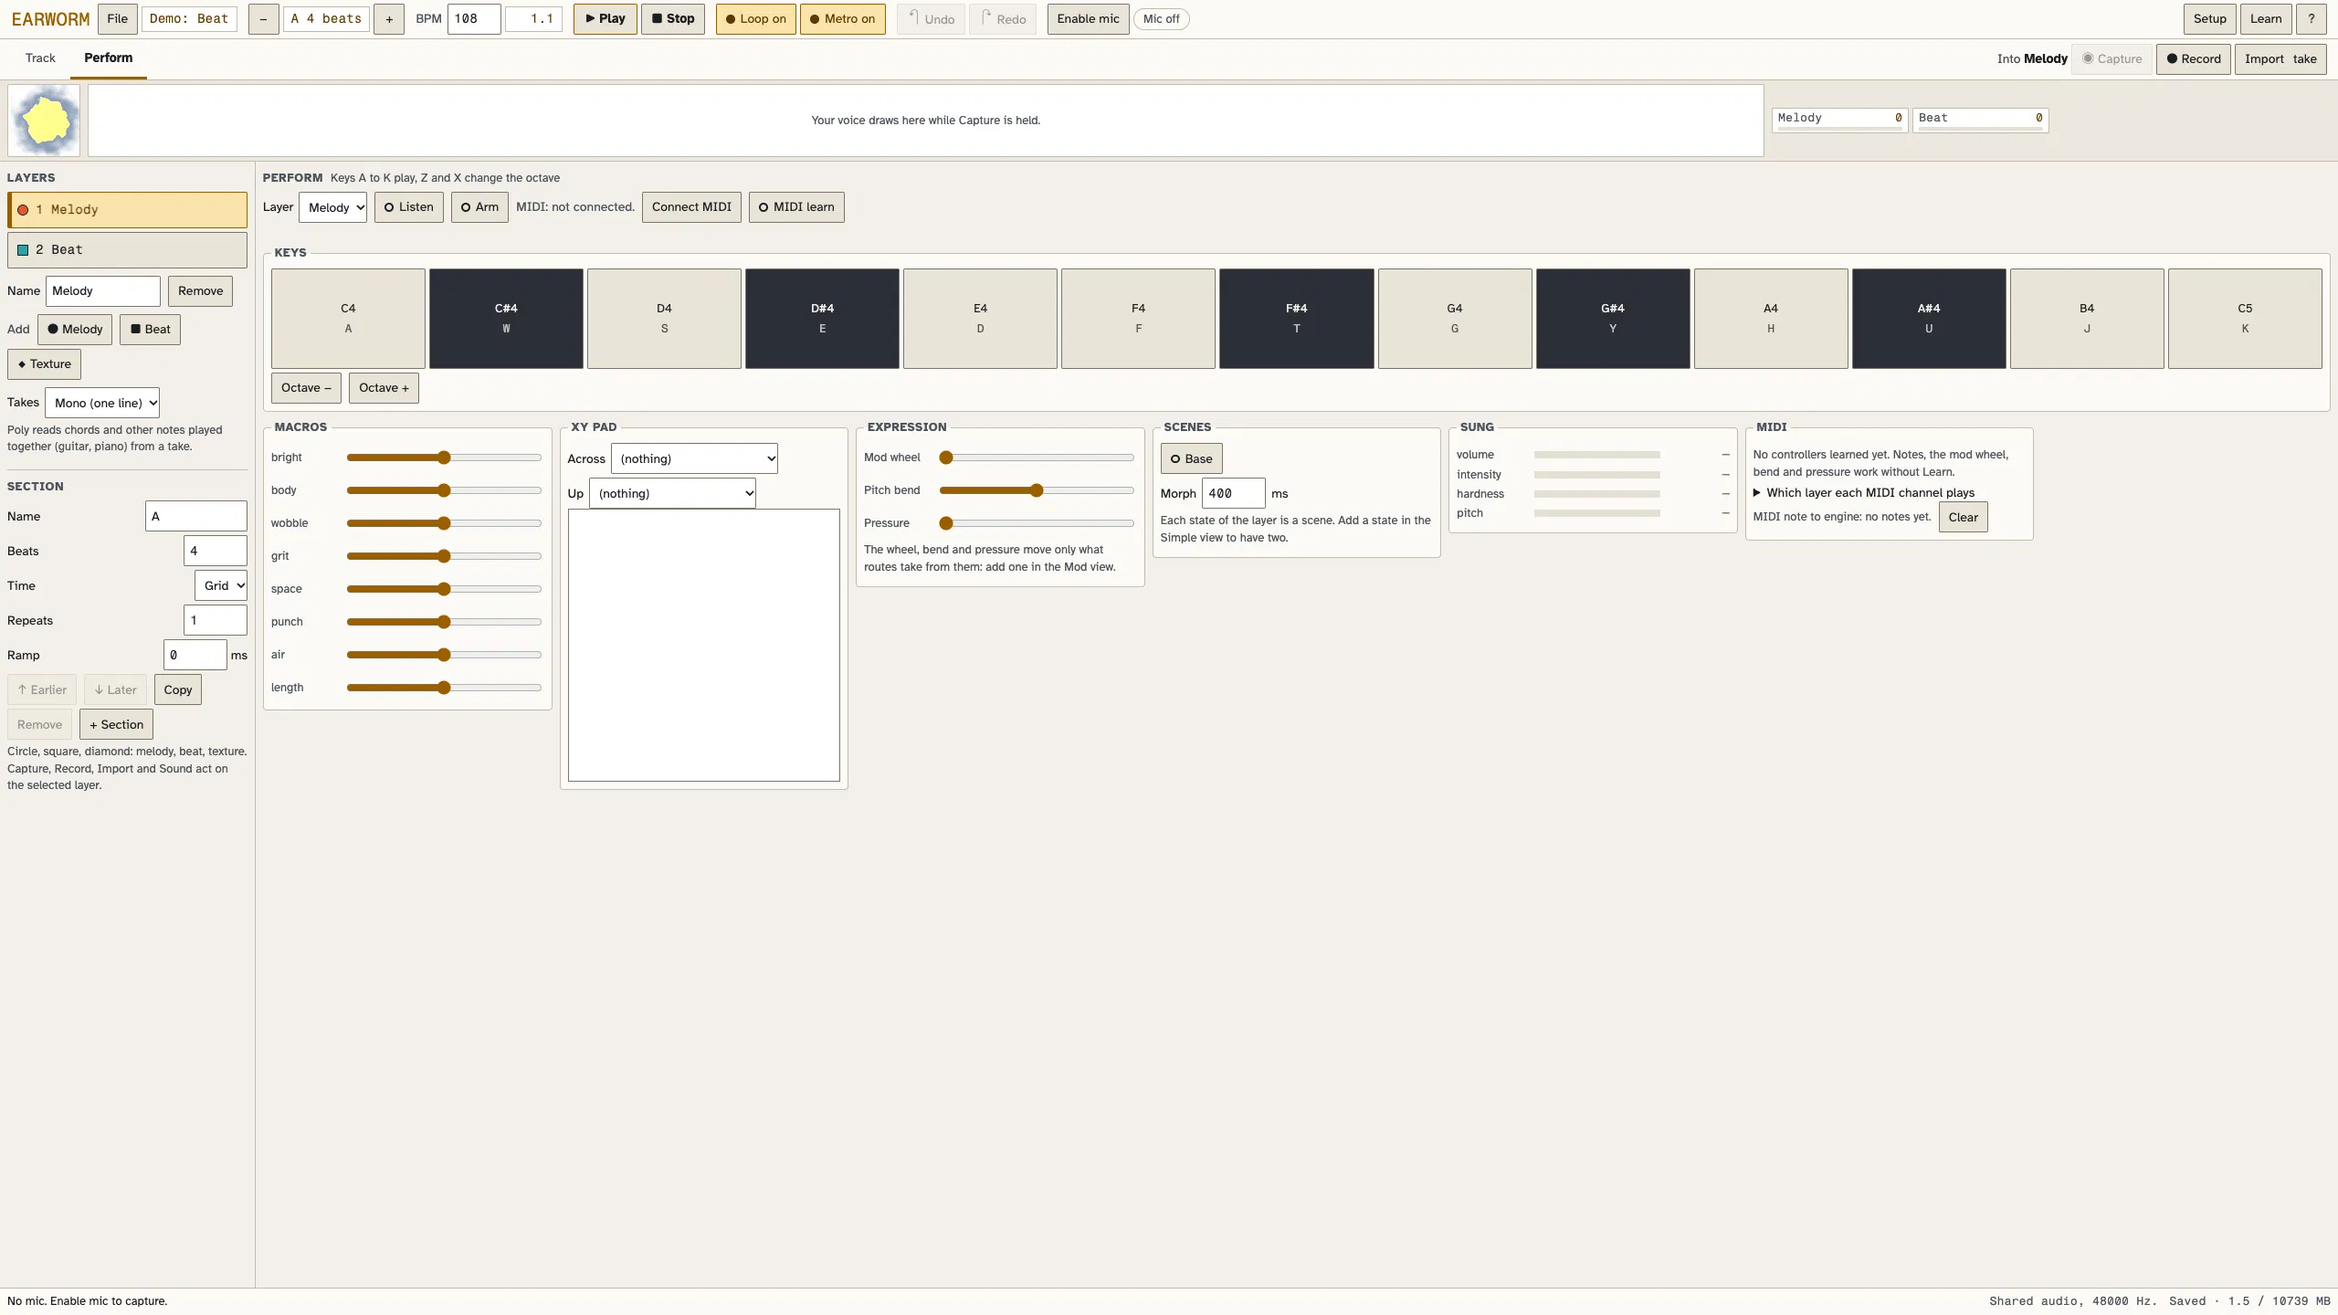
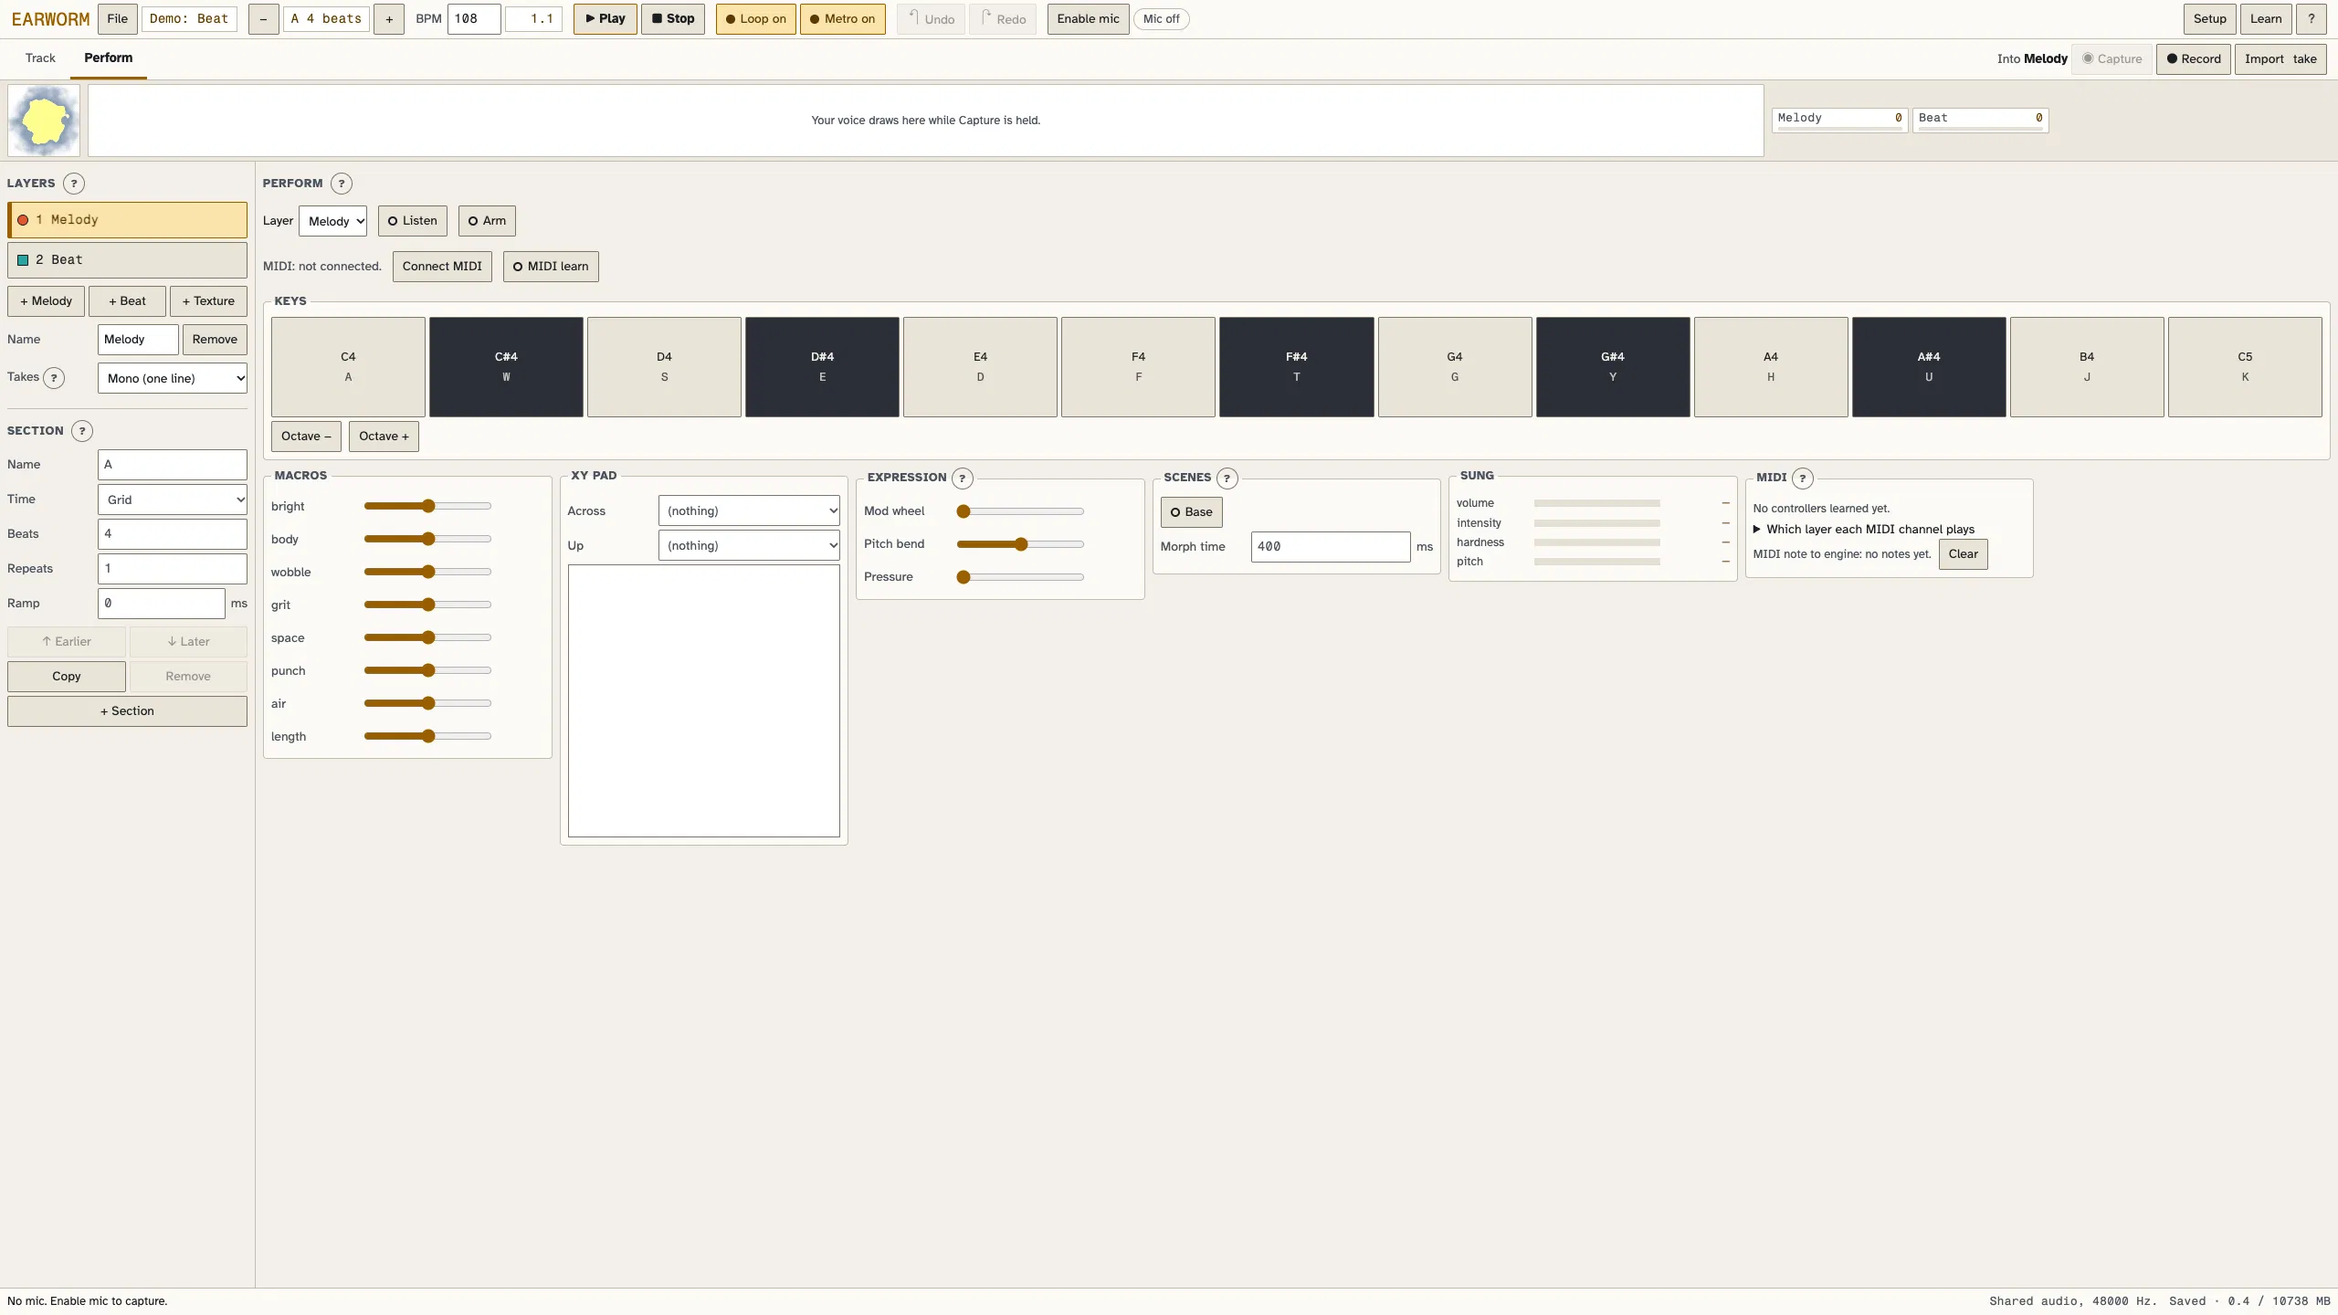
docs: the second UI pass and the owner's decisions in UI1.md and ui.md
ui.md gains the forms-and-help rules of the design language, the new keys
and the second pass in the change list, and fresh after screenshots (a help
bubble and Setup added). UI1.md records what the second pass built, how to
check it, its results, and the four decisions; its questions are now the
next ones. The layer list's label column is a little wider so Takes and its
help button stay on one line.

Changed region(s): [[0.0, 0.0625, 1.0, 0.5938], [0.5938, 0.4062, 0.625, 0.4375], [0.2812, 0.1562, 0.3125, 0.1875]]

diff --git a/web/src/app/style.css b/web/src/app/style.css
@@ -531,7 +531,9 @@ body.learning [data-perf-key], body.learning .knob[data-key] input, body.learnin
 .field .range input { flex: 1; width: auto; min-width: 0; }
 .field .actions { margin: 0; }
 .with-action { display: flex; flex-wrap: wrap; gap: var(--s-2); min-width: 0; }
-.with-action > input, .with-action > select, .with-action > .unit { flex: 1 1 6em; min-width: 0; width: auto; }
+.with-action > input, .with-action > select, .with-action > .unit { flex: 1 1 5em; min-width: 0; width: auto; }
+/* The layer list's names are short, so its controls get the width. */
+#panel-layers { --label-w: 5.2em; }
 .actions { display: flex; flex-wrap: wrap; gap: var(--s-2); align-items: center; margin: var(--s-2) 0; }
 .push { margin-left: auto; }
 .btn-grid { display: grid; grid-template-columns: 1fr 1fr; gap: var(--s-2); margin-top: var(--s-3); }

diff --git a/docs/UI1.md b/docs/UI1.md
@@ -1,6 +1,6 @@
 # UI1: the interface pass
 
-Built Nov 22, 2026, from [ui.md](ui.md), after Q2 and P3 landed. The app had grown one control at a time across fifteen stages; this pass audited it at six screen sizes, in both color schemes, by mouse, touch, keyboard and MIDI, and rebuilt the page around one model: a transport that is always there, two places (Track to make the song, Perform to play it), and the selected layer as the thread between them. It also fixes what the audit found broken, chiefly a pattern grid that could not be seen on any screen 960 px and wider. No engine, compiler or project-format code changed: the audio and determinism guarantees of S5 and Q2 stand as they were.
+Built Nov 22, 2026, from [ui.md](ui.md), after Q2 and P3 landed. The app had grown one control at a time across fifteen stages; this pass audited it at six screen sizes, in both color schemes, by mouse, touch, keyboard and MIDI, and rebuilt the page around one model: a transport that is always there, two places (Track to make the song, Perform to play it), and the selected layer as the thread between them. It also fixes what the audit found broken, chiefly a pattern grid that could not be seen on any screen 960 px and wider. After the owner's first look ("much of the layout is still pretty sloppy"), a second pass put every control on one field grid and moved the explanations behind help bubbles. No engine, compiler or project-format code changed: the audio and determinism guarantees of S5 and Q2 stand as they were.
 
 ## What was built
 
@@ -24,7 +24,12 @@ Built Nov 22, 2026, from [ui.md](ui.md), after Q2 and P3 landed. The app had gro
 | Names that no longer collide: the section's Time (Grid or Free), Groove (Straight or Swing) inside Feel, Pitch snap in Tune, MIDI learn, Listen (hold), Teach (hold). The lessons use the new names and say where the metronome's settings went | `index.html`, `main.ts`, `perform.ts`, `app/tutorials.ts` |
 | The next step. After a take lands the status line offers "Quantize it"; after a pass, "See it on the track". Quantize opens the Feel box, whose summary line says its settings when it is folded | `offerNext` and `fillFlex` in `main.ts` |
 | File: Share (Export mix first), Projects, and Tidy, with Delete apart and marked | `index.html` |
-| The Mod view's route table keeps a range on one line and shows an open range as ∞ | `app/synth-ui.ts` |
+| The Mod view's routes are cards (source and amount; the target and its live output; the shaper; what scales it), and an open range reads ∞ | `app/synth-ui.ts`, `style.css` |
+| **Second pass.** One field grid in every panel and dialog: the name in a label column, the control beside it at full width, the buttons that act on it lined up under it. A column under 220 px puts names above controls (a container query) | `style.css` ("forms"), `index.html` |
+| Help bubbles: every explanation that was a paragraph on the page is behind a "?" beside its heading, legend or toolbar; the bubble is a native popover placed beside its button and kept in the window. Only live status stays on the page | `app/help.ts`; `index.html`; `perform.ts`, `synth-ui.ts` |
+| Values beside sliders: level in dB, Tune, the macros, gestures, Influence's amount | `readout` in `main.ts` |
+| Influence's aspects are chips; the theme switch is a segmented control; Perform's top is two toolbars (the layer and how it is played, then MIDI) | `index.html`, `perform.ts`, `style.css` |
+| One meaning per key: Space plays and stops (on a focused button, box or tab it presses that control), hold C captures, R starts and stops a pass. The key list, the lessons and the tooltips say so | the window key handlers in `main.ts`; `index.html`; `tutorials.ts`; `capture.ts` |
 
 ## How to check it
 
@@ -41,6 +46,9 @@ Built Nov 22, 2026, from [ui.md](ui.md), after Q2 and P3 landed. The app had gro
 | Import take with an audio file on Melody | The status line says what was imported and offers "Quantize it"; pressing it opens Feel, "on · 1/4 beat · 100% · smooth" |
 | Chrome DevTools device toolbar at 390 × 844 and 844 × 390, touch on | The dock at the bottom; the page scrolls; dragging empty timeline space pans; two taps add a note |
 | `?` | The list of keys |
+| Space, Space, R, R, hold C | Play, stop, start a pass ("● Recording"), stop it; C without the mic says to press Enable mic |
+| Any "?" | A bubble opens beside it, inside the window; Esc or a click outside closes it |
+| A tablet at 1024 × 768 | The layer list's names sit above their controls; nothing in it is cut off |
 | Learn, "Capture onto the track", Next to "Line the take up" | Setup opens beside the tour bar with Align outlined |
 
 ## Results
@@ -61,6 +69,8 @@ Measured on the build machine in headless Chrome, Nov 22, 2026. The before and a
 | Import take, then Quantize from the status line | A 6 s drum file on Melody: 7 notes, 7 anchors, "Quantize it" offered; pressed, Feel reads "on · 1/4 beat · 100% · smooth" and opens |
 | Export mix | "Mix saved. 30.8× realtime, peak 0.56", from File |
 | A lesson step inside Setup | Setup opens without a backdrop, the tour bar stays usable, Align is outlined |
+| Keys | Space played ("■ Playing") and stopped; R started a pass ("● Recording") and stopped it; C without the mic said "Capture needs the mic: press Enable mic." |
+| After the second pass, both themes, 1440 × 900 and 390 × 844 | No control under 24 px, no text under 4.5:1, no horizontal scroll. Grid 342 px at 1440; on the phone the work runs from 198 px to the dock at 702 px |
 | Console errors during the walks | None |
 | `pnpm test` | All pass: 449 Vitest tests in 57 files (on top of the poly-take commits that landed during the pass), and 365 Rust tests (4 ignored, as before) |
 
@@ -69,15 +79,22 @@ Measured on the build machine in headless Chrome, Nov 22, 2026. The before and a
 - **No More menu on a phone.** The header (File, section, tempo, Loop, Metro, Undo) scrolls away with the page, and the controls used while playing are in the bottom dock. That kept every control one tap away, with nothing hidden in a menu.
 - **The timeline does not grow into free height on a large monitor.** Its height is its lanes (one per layer), so the grid grew instead.
 - **Record left Perform.** The transport's Record is always on screen in both places, so the second one was only a duplicate with a different label.
-- **Space is unchanged.** See question 1.
+- **The keys changed from TDD's design.** TDD had Space hold to capture; the owner chose Space for play and stop only, hold C to capture and R for a pass.
 
 ## What remains
 
-The list is in ui.md, section 7 ("Left for a later pass"). The two that matter most: Space's two meanings, and capture with a real microphone, which headless Chrome here cannot grant, so it was not walked (only its buttons moved; the capture code did not change).
+The list is in ui.md, section 7 ("Left for a later pass"). The one that matters most is capture with a real microphone, which headless Chrome here cannot grant, so it was not walked (only its buttons moved; the capture code did not change).
+
+## Decided
+
+The owner decided the four questions the first draft asked, each as recommended:
+
+1. **Keys.** Space always plays and stops, hold C captures, R starts and stops a pass. Built.
+2. **The light theme** stays warm paper white with dark amber for "on".
+3. **Kit slot colors** stay orange, sky blue, purple and yellow, each with its shape and its named row.
+4. **Undo on a phone** stays in the header, which scrolls away; the dock keeps Play, Stop and the take buttons.
 
 ## Questions for the owner
 
-1. **Space.** It plays and stops with the mic off, and holds to capture with the mic on, as TDD asked. The same key doing two things depending on a setting is the one mode error left. Recommended: Space always plays and stops, hold C captures, and R starts and stops a pass (the keys most DAWs use). Or keep it as it is?
-2. **The light theme.** It is a warm paper white with dark amber for "on". Does it read well to you, or would you rather a neutral grey?
-3. **Kit slot colors.** Kick, snare, hat and open are now orange, sky blue, purple and yellow, each with its own shape and its row named. They changed on the M2 test page too. Can you tell them apart at a glance? Recommended: keep them.
-4. **Undo on a phone.** It scrolls away with the header. Recommended: leave it there (a scroll up reaches it) rather than crowd the dock. Or put it in the dock in place of Import?
+1. **Help for a first visit.** Every explanation is now one press away, behind a "?". The lessons still walk through each feature. Recommended: leave it so. Or should a first visit show a short line under each panel heading until it is dismissed?
+2. **What next.** The two largest things left are a mute button on each layer row (with solo), and a list of sections to click instead of the stepper. Recommended: those two first, in the next UI pass.

diff --git a/docs/ui.md b/docs/ui.md
@@ -107,7 +107,9 @@ The keyboard is a first-class way in. Shortcuts never fire while typing in a tex
 
 | Key | Does |
 | --- | --- |
-| Space | Play or stop when the mic is off. With the mic on, hold to capture (unchanged; see the questions in UI1.md) |
+| Space | Play or stop. On a focused button, box or tab it presses that control instead |
+| C (hold) | Capture into the selected layer (the mic must be on) |
+| R | Start or stop recording a pass |
 | Esc | Stop |
 | Ctrl/⌘ Z, Shift Ctrl/⌘ Z, Ctrl/⌘ Y | Undo, redo |
 | Alt 1, Alt 2, Alt 3 | Track, Sound, Perform |
@@ -177,6 +179,10 @@ Kit slots and morph states keep their own hues, chosen so no two neighbours are 
 
 `--move` is 160 ms ease-out for state changes (a panel switch, a pressed button); nothing moves on its own except the playhead, the meters, the Klont and the logo. With reduced motion, transitions drop to nothing and the Klont stops wobbling.
 
+### Forms and help
+
+One layout for every control in a panel or dialog: the name in a label column (`--label-w`, 6.5em; 5.2em in the layer list; 8.5em in dialogs), the control beside it at full width, and the buttons that act on it lined up under the control column. Slider rows use the same columns, with the value at the right. In a column under 220 px the name goes above its control (a container query). On the page there is no explanatory prose: each panel, fieldset or toolbar that needs explaining has a "?" button whose bubble holds the explanation, and the only text left on the page is live status (what Feel's anchors are, what a match is doing, what was captured).
+
 ### Icons
 
 Text glyphs, always beside a word, never instead of one: ▶ Play, ■ Stop, ● Record, ◉ Capture. A toggle carries a ring that fills when it is on (○ off, ● on), so on and off differ in shape as well as color.
@@ -203,6 +209,8 @@ In priority order. P0 is broken or inaccessible; P1 is the model above; P2 is po
 | 14 | The Feel row folds behind a summary; hints shortened and kept to one line where they repeat the lessons | P2 |
 | 15 | The Mod view's route table fits its column | P2 |
 | 16 | MIDI inputs named in the transport, not only inside Perform | P2 |
+| 17 | Second pass, after the owner's review: every control on the field grid, explanations behind help bubbles, values beside sliders, Influence's aspects as chips, the Mod view's routes as cards | P1 |
+| 18 | One meaning per key: Space plays and stops, hold C captures, R records a pass | P1 |
 
 
 ## 7. After the pass
@@ -216,8 +224,8 @@ Every change on the list was built (UI1.md says how to check each). The same wal
 | Pattern grid height at 1440 × 900 | 2 px (invisible) | 342 px |
 | Phone 390 × 844: space for the work | 299 px, scrolling inside a box | 504 px on load, 702 px once the header scrolls away; the page scrolls |
 | Phone: pattern rows visible on load | 6 | 10 |
-| Controls under 24 px, at 1440 and at 390 | 42 and 2 | 0 and 0 |
-| Text under 4.5:1, dark and light | 0 (dark only existed) | 0 and 0 |
+| Controls under 24 px, at 1440 and at 390 | 42 and 2 | 0 and 0, in both themes |
+| Text under 4.5:1, dark and light, at 1440 and at 390 | 0 (dark only existed) | 0 everywhere |
 | Tab stops to reach the pattern grid / inside it / to the timeline | 30 / 32 / 68 | 33 / 1 / 39 (and one Tab to "Skip to the track") |
 | Light theme | none | System, Light or Dark |
 | Kit slots told apart without color | no | named rows and a shape per slot |
@@ -231,13 +239,14 @@ Every change on the list was built (UI1.md says how to check each). The same wal
 | Phone 390 × 844 | ![](ui-shots/before-phone390-dark.webp) | ![](ui-shots/after-phone390-dark.webp) |
 | Phone, Sound and Perform | ![](ui-shots/before-phone390-perform-scrolled.webp) | ![](ui-shots/after-phone390-sound.webp) ![](ui-shots/after-phone390-perform.webp) |
 | Phone, File | ![](ui-shots/before-phone390-file.webp) | ![](ui-shots/after-phone390-file.webp) |
-| Phone 375 × 812, and light | | ![](ui-shots/after-phone375-dark.webp) ![](ui-shots/after-phone390-light.webp) |
+| Phone 375 × 812, and Layers in light | | ![](ui-shots/after-phone375-dark.webp) ![](ui-shots/after-phone390-light.webp) |
 | Tablet 768 × 1024 | ![](ui-shots/before-tablet768-dark.webp) | ![](ui-shots/after-tablet768-dark.webp) |
 | Tablet 1024 × 768 | ![](ui-shots/before-tablet1024-dark.webp) | ![](ui-shots/after-tablet1024-dark.webp) |
 | Laptop 1440 × 900 | ![](ui-shots/before-laptop-dark.webp) | ![](ui-shots/after-laptop-dark.webp) |
 | Laptop, light system setting | ![](ui-shots/before-laptop-light.webp) | ![](ui-shots/after-laptop-light.webp) |
 | Laptop, Perform | ![](ui-shots/before-laptop-perform.webp) | ![](ui-shots/after-laptop-perform.webp) |
 | Laptop, Mod | ![](ui-shots/before-laptop-mod.webp) | ![](ui-shots/after-laptop-mod.webp) |
+| Laptop, a help bubble and Setup | | ![](ui-shots/after-laptop-help.webp) ![](ui-shots/after-laptop-setup.webp) |
 | Monitor 2560 × 1440 | ![](ui-shots/before-monitor-dark.webp) | ![](ui-shots/after-monitor-dark.webp) |
 | Monitor, Perform, light | | ![](ui-shots/after-monitor-light-perform.webp) |
 
@@ -245,7 +254,6 @@ The before shots on a phone and a tablet were taken before Start, the after shot
 
 ### Left for a later pass
 
-- **Space.** It still means "hold to capture" with the mic on and "play or stop" without it, as the design asked (UI1.md, question 1).
 - **Capture with a real mic** was not walked: headless Chrome here never grants one. The capture path changed only in where its buttons sit and in the ribbon now showing while it runs.
 - **The layer list** has no mute or solo on its rows; mute is in Sound. A row with its own mute toggle needs the list to stop being a listbox.
 - **Sections** are still reached with the stepper; there is no list of them to click.
